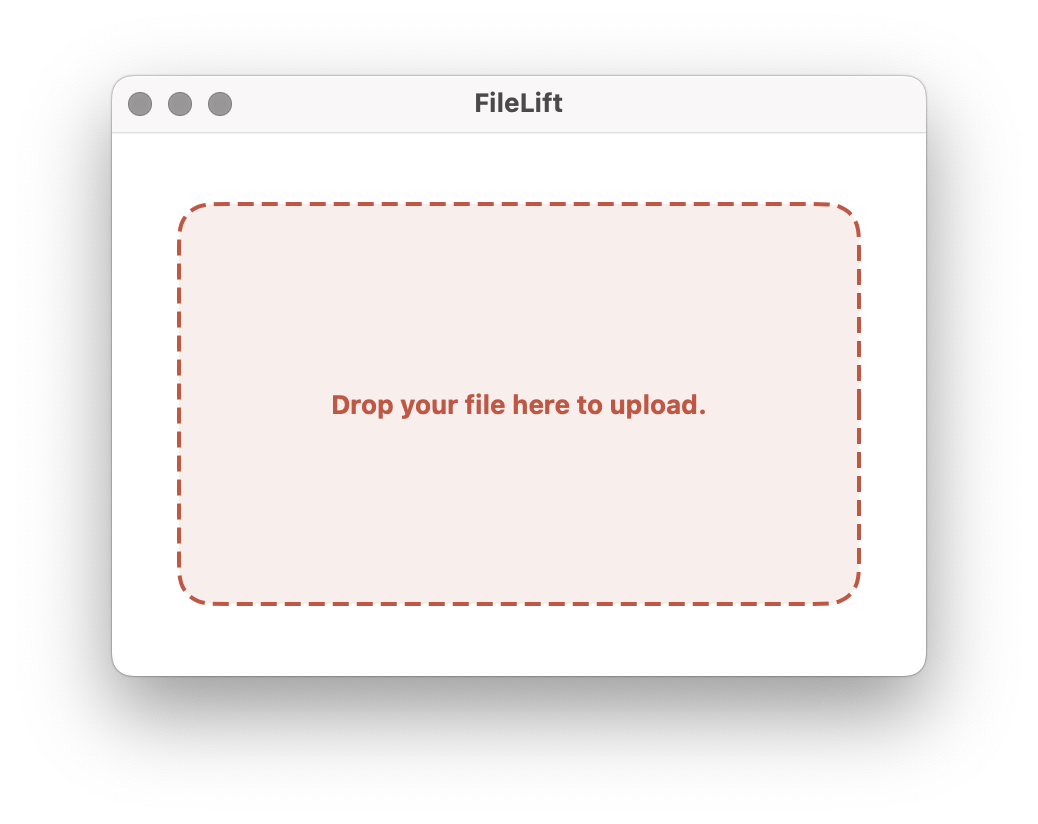
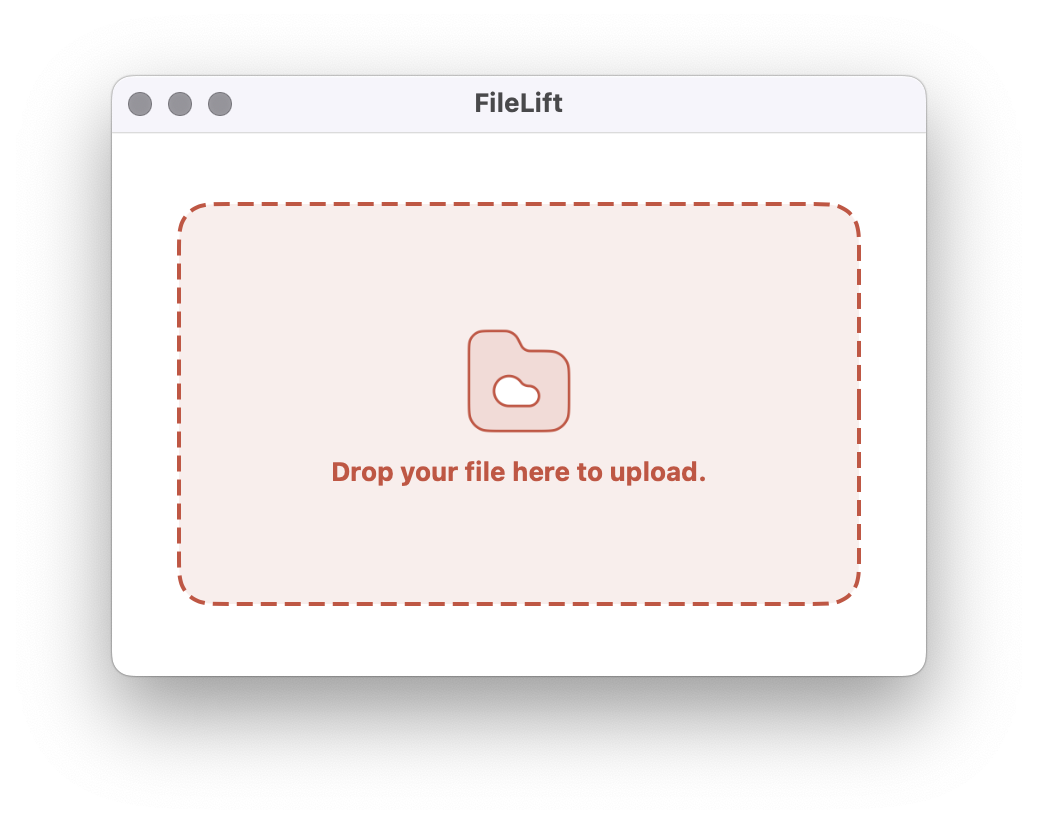
README.md was updated.

Changed region(s): [[0.3083, 0.3944, 0.6782, 0.6068]]

diff --git a/FileLift/README.md b/FileLift/README.md
@@ -36,6 +36,7 @@ Start the FileLift application and navigate to **Settings...**. Enter your `comp
 ## TODO
 
 - [ ] Error handling and user feedback
+- [ ] Progress indicator
 - [ ] Multiple files upload
 - [ ] Folder upload support
 - [ ] Automatic update